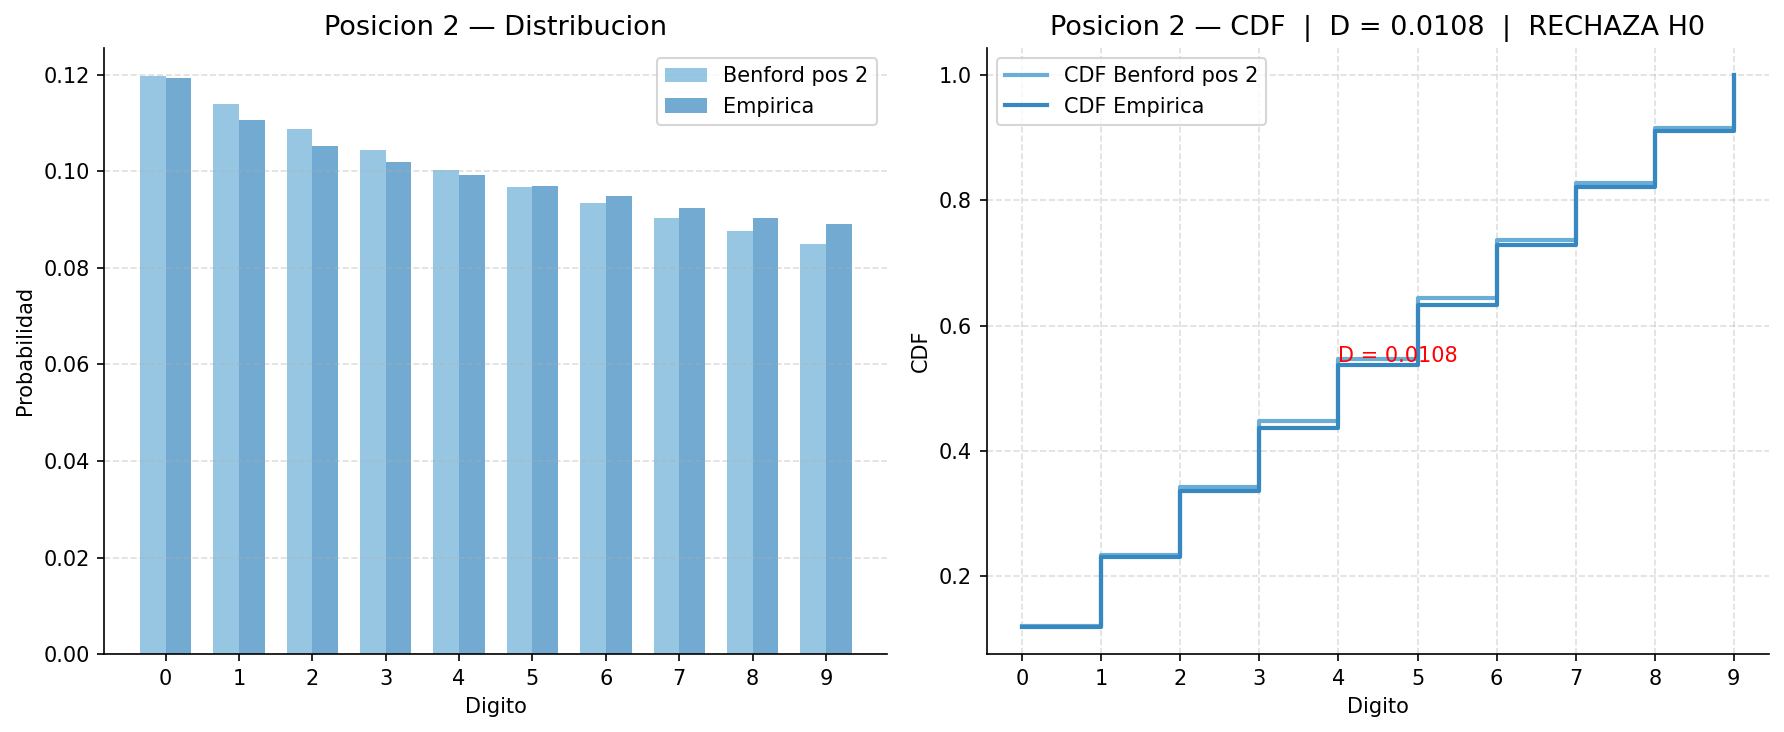
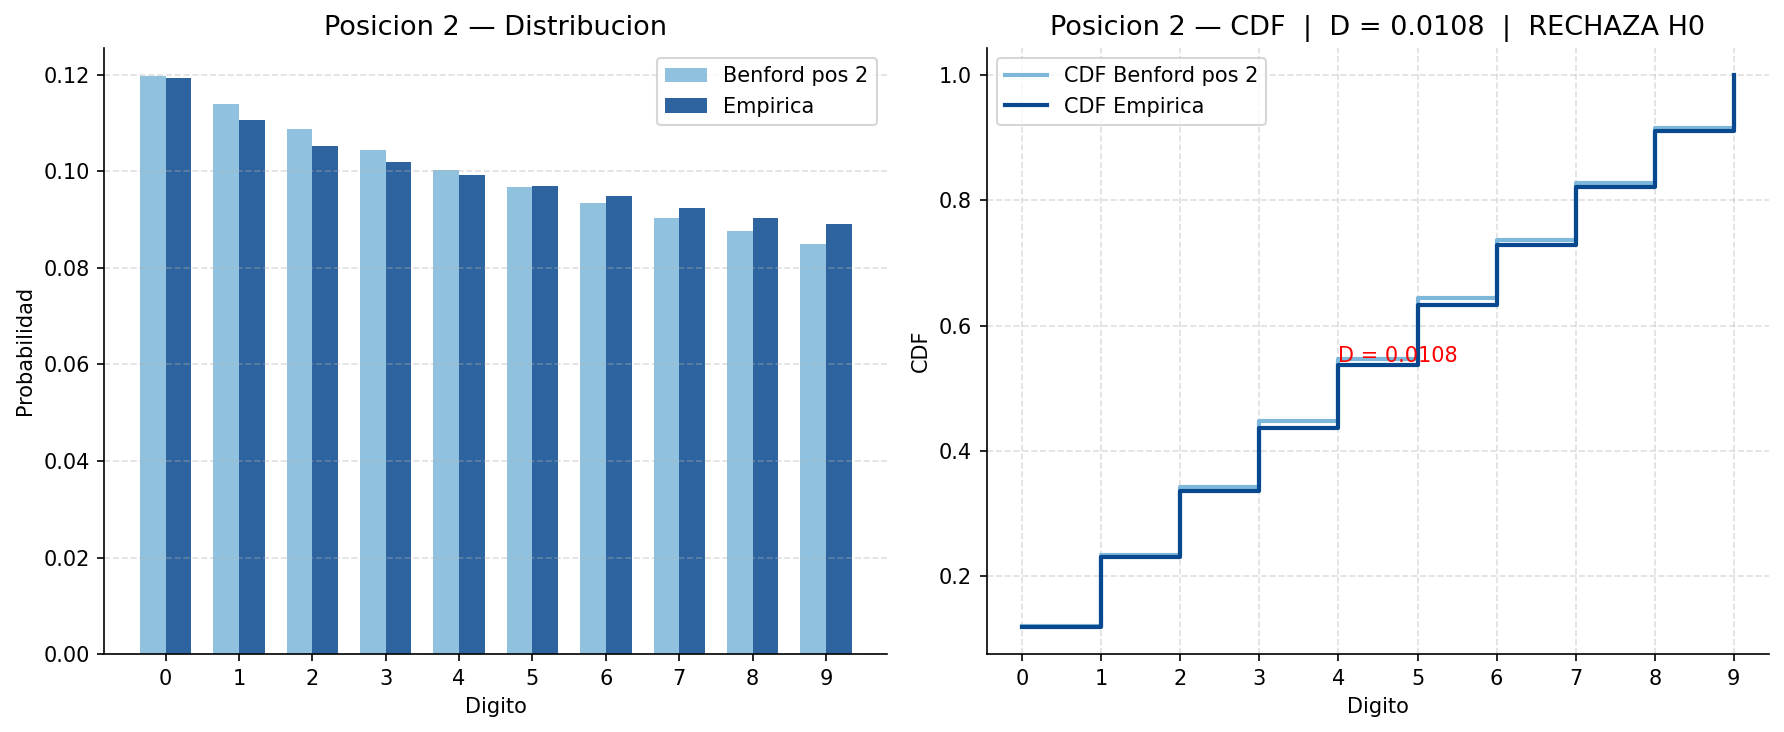
feat: annade progra y graficos de prueba kruskal wallis

diff --git a/codigo/03_modelacion.py b/codigo/03_modelacion.py
@@ -25,7 +25,7 @@ TOKENS_DIST       = "../datos/procesados/tokens_dist_digitos.txt"
 OUT_DIR           = "../datos/procesados/graficos_ks"
 OUT_TXT           = "../datos/procesados/ks_tokens_resumen.txt"
 OUT               = "../datos/procesados/pruebas_resumen.txt"
-palette           = sns.color_palette("Blues", 5)
+palette           = sns.color_palette("Blues", 10)
 
 
 
@@ -157,21 +157,20 @@ def ks_benford(alpha=0.05):
 
         ax1 = axes[0]
         ax1.set_facecolor("white")
-        ax1.bar(x - ancho/2, prob_teorica,  width=ancho, color=palette[2], alpha=0.7, label=f"Benford pos {pos_num}")
-        ax1.bar(x + ancho/2, prob_empirica, width=ancho, color=palette[3], alpha=0.7, label="Empirica")
+        ax1.bar(x - ancho/2, prob_teorica,  width=ancho, color=palette[4], alpha=0.85, label=f"Benford pos {pos_num}")
+        ax1.bar(x + ancho/2, prob_empirica, width=ancho, color=palette[9], alpha=0.85, label="Empirica")
         ax1.set_title(f"Posicion {pos_num} — Distribucion", fontsize=13)
         ax1.set_xlabel("Digito")
         ax1.set_ylabel("Probabilidad")
         ax1.set_xticks(x)
         ax1.legend()
+        sns.despine(ax=ax1)
         ax1.grid(axis="y", linestyle="--", alpha=0.4)
-        ax1.spines["top"].set_visible(False)
-        ax1.spines["right"].set_visible(False)
 
         ax2 = axes[1]
         ax2.set_facecolor("white")
-        ax2.step(x, cdf_teorica,  where="post", color=palette[2], linewidth=2, label=f"CDF Benford pos {pos_num}")
-        ax2.step(x, cdf_empirica, where="post", color=palette[3], linewidth=2, label="CDF Empirica")
+        ax2.step(x, cdf_teorica,  where="post", color=palette[4], linewidth=2, label=f"CDF Benford pos {pos_num}")
+        ax2.step(x, cdf_empirica, where="post", color=palette[9], linewidth=2, label="CDF Empirica")
 
         idx_max = np.argmax(np.abs(cdf_empirica - cdf_teorica))
         ax2.annotate(
@@ -185,9 +184,8 @@ def ks_benford(alpha=0.05):
         ax2.set_ylabel("CDF")
         ax2.set_xticks(x)
         ax2.legend()
+        sns.despine(ax=ax2)
         ax2.grid(linestyle="--", alpha=0.4)
-        ax2.spines["top"].set_visible(False)
-        ax2.spines["right"].set_visible(False)
 
         plt.tight_layout()
         plt.savefig(f"{OUT_DIR}/ks_pos{pos_num}.png", dpi=150, bbox_inches="tight", facecolor="white")
@@ -212,6 +210,264 @@ def ks_benford(alpha=0.05):
     print(f"  -> Graficos en {OUT_DIR}/")
 
 
+
+def kruskal_wallis_entropias():
+    """
+    Calcula la prueba de Kruskal-Wallis sobre las entropias medias de las mascaras
+    agrupadas por tres criterios: longitud de mascara, tipo dominante de caracteres
+    y rango de entropia media.
+
+    Args:
+        None
+
+    Returns:
+        None: Guarda graficos boxplot por agrupacion y un resumen en texto plano.
+
+    Example:
+        >>> kruskal_wallis_entropias()
+        KW Longitud:       H = 48231.2100   p = 0.000000   RECHAZA H0
+        KW Tipo dominante: H = 12045.8800   p = 0.000000   RECHAZA H0
+        KW Rango entropia: H = 11746760.06  p = 0.000000   RECHAZA H0
+
+    Notes:
+        Las muestras se expanden por frecuencia (hasta un cap de 500k por mascara)
+        para que el test pondere correctamente las mascaras mas comunes.
+        Los tipos dominantes son: Solo L (solo minusculas), Solo D (solo digitos),
+        Solo U (solo mayusculas) y Mixta (combinacion de tipos).
+        El resultado de la agrupacion por rango de entropia es trivialmente
+        significativo por construccion y debe interpretarse solo como descriptivo.
+    """
+
+    OUT_KW_DIR = "../datos/procesados/graficos_kw"
+    OUT_KW_TXT = "../datos/procesados/kw_entropias_resumen.txt"
+    os.makedirs(OUT_KW_DIR, exist_ok=True)
+
+    mascaras    = []
+    entropias   = []
+    frecuencias = []
+
+    with open(ROCKYOUMASKS, "r", encoding="utf-8") as f:
+        reader = csv.DictReader(f)
+        for row in reader:
+            mascaras.append(row["mascara"])
+            entropias.append(float(row["entropia_media"]))
+            frecuencias.append(int(row["frecuencia"]))
+
+    mascaras    = np.array(mascaras)
+    entropias   = np.array(entropias)
+    frecuencias = np.array(frecuencias)
+
+    def expandir(vals, freqs, cap=500_000):
+        """
+        Expande una lista de valores repitiendolos segun su frecuencia asociada.
+
+        Args:
+            vals (list[float]): Valores a expandir.
+            freqs (list[int]):  Frecuencias correspondientes.
+            cap (int):          Limite maximo de repeticiones por valor. Por defecto 500000.
+
+        Returns:
+            numpy.ndarray: Array expandido de floats.
+        """
+        out = []
+        for v, f in zip(vals, freqs):
+            out.extend([v] * min(f, cap))
+        return np.array(out, dtype=float)
+
+    resultados_kw = []
+
+    longitudes  = np.array([len(m) for m in mascaras])
+    grupos_long = defaultdict(list)
+
+    for lon, ent, frq in zip(longitudes, entropias, frecuencias):
+        grupos_long[lon].append((ent, frq))
+
+    grupos_long_valid = {k: v for k, v in grupos_long.items() if len(v) >= 2}
+    etiquetas_long    = sorted(grupos_long_valid.keys())
+    muestras_long     = [expandir([e for e, _ in grupos_long_valid[k]],
+                                  [f for _, f in grupos_long_valid[k]])
+                         for k in etiquetas_long]
+
+    H_long, p_long = stats.kruskal(*muestras_long)
+    rechaza_long   = p_long < 0.05
+
+    resultados_kw.append({
+        "agrupacion": "Longitud de mascara",
+        "n_grupos":   len(etiquetas_long),
+        "H":          H_long,
+        "p":          p_long,
+        "rechaza":    rechaza_long
+    })
+
+    print(f"  KW Longitud:      H = {H_long:.4f}   p = {p_long:.6f}   {'RECHAZA H0' if rechaza_long else 'No rechaza H0'}")
+
+    medias     = [np.mean(m) for m in muestras_long]
+    df_long    = {"longitud": [], "entropia": []}
+    for k, m in zip(etiquetas_long, muestras_long):
+        df_long["longitud"].extend([k] * len(m))
+        df_long["entropia"].extend(m.tolist())
+
+    fig, ax = plt.subplots(figsize=(14, 5))
+    fig.patch.set_facecolor("white")
+    sns.boxplot(x=df_long["longitud"], y=df_long["entropia"],
+                palette="Blues", ax=ax, linewidth=0.8, fliersize=1)
+    ax.plot(range(len(etiquetas_long)), medias, "o--",
+            color=palette[4], markersize=4, label="Media")
+    ax.set_title(f"Kruskal-Wallis — Entropia por longitud de mascara\nH = {H_long:.4f}  |  p = {p_long:.6f}  |  {'RECHAZA H0' if rechaza_long else 'No rechaza H0'}", fontsize=12)
+    ax.set_xlabel("Longitud de mascara")
+    ax.set_ylabel("Entropia media")
+    ax.legend()
+    sns.despine(ax=ax)
+    ax.grid(axis="y", linestyle="--", alpha=0.4)
+    plt.tight_layout()
+    plt.savefig(f"{OUT_KW_DIR}/kw_longitud.png", dpi=150, bbox_inches="tight", facecolor="white")
+    plt.close()
+
+    def clasificar_tipo(mascara):
+        """
+        Clasifica una mascara segun el tipo dominante de sus caracteres.
+
+        Args:
+            mascara (str): Cadena de caracteres tipo mascara (ej. 'LLLDDD').
+
+        Returns:
+            str: Una de las etiquetas: 'Solo L', 'Solo D', 'Solo U' o 'Mixta'.
+        """
+        chars = set(mascara)
+        if chars <= {"L"}:
+            return "Solo L"
+        if chars <= {"D"}:
+            return "Solo D"
+        if chars <= {"U"}:
+            return "Solo U"
+        if chars <= {"S"}:
+            return "Solo S"
+        return "Mixta"
+
+    tipos       = np.array([clasificar_tipo(m) for m in mascaras])
+    grupos_tipo = defaultdict(list)
+
+    for tip, ent, frq in zip(tipos, entropias, frecuencias):
+        grupos_tipo[tip].append((ent, frq))
+
+    etiquetas_tipo = sorted(grupos_tipo.keys())
+    muestras_tipo  = [expandir([e for e, _ in grupos_tipo[k]],
+                               [f for _, f in grupos_tipo[k]])
+                      for k in etiquetas_tipo]
+
+    H_tipo, p_tipo = stats.kruskal(*muestras_tipo)
+    rechaza_tipo   = p_tipo < 0.05
+
+    resultados_kw.append({
+        "agrupacion": "Tipo dominante",
+        "n_grupos":   len(etiquetas_tipo),
+        "H":          H_tipo,
+        "p":          p_tipo,
+        "rechaza":    rechaza_tipo
+    })
+
+    print(f"  KW Tipo dominante: H = {H_tipo:.4f}   p = {p_tipo:.6f}   {'RECHAZA H0' if rechaza_tipo else 'No rechaza H0'}")
+
+    medias_tipo = [np.mean(m) for m in muestras_tipo]
+    df_tipo     = {"tipo": [], "entropia": []}
+    for k, m in zip(etiquetas_tipo, muestras_tipo):
+        df_tipo["tipo"].extend([k] * len(m))
+        df_tipo["entropia"].extend(m.tolist())
+
+    fig, ax = plt.subplots(figsize=(8, 5))
+    fig.patch.set_facecolor("white")
+    sns.boxplot(x=df_tipo["tipo"], y=df_tipo["entropia"],
+                palette="Blues", ax=ax, linewidth=0.8, fliersize=1)
+    ax.plot(range(len(etiquetas_tipo)), medias_tipo, "o--",
+            color=palette[4], markersize=5, label="Media")
+    ax.set_title(f"Kruskal-Wallis — Entropia por tipo de mascara\nH = {H_tipo:.4f}  |  p = {p_tipo:.6f}  |  {'RECHAZA H0' if rechaza_tipo else 'No rechaza H0'}", fontsize=12)
+    ax.set_xlabel("Tipo de mascara")
+    ax.set_ylabel("Entropia media")
+    ax.legend()
+    sns.despine(ax=ax)
+    ax.grid(axis="y", linestyle="--", alpha=0.4)
+    plt.tight_layout()
+    plt.savefig(f"{OUT_KW_DIR}/kw_tipo.png", dpi=150, bbox_inches="tight", facecolor="white")
+    plt.close()
+
+    def rango_entropia(e):
+        """
+        Clasifica un valor de entropia en uno de tres rangos predefinidos.
+
+        Args:
+            e (float): Valor de entropia media.
+
+        Returns:
+            str: Etiqueta del rango: 'Baja (<1.5)', 'Media (1.5-2.5)' o 'Alta (>=2.5)'.
+        """
+        if e < 1.5:
+            return "Baja (<1.5)"
+        if e < 2.5:
+            return "Media (1.5-2.5)"
+        return "Alta (>=2.5)"
+
+    rangos       = np.array([rango_entropia(e) for e in entropias])
+    grupos_rango = defaultdict(list)
+
+    for rng, ent, frq in zip(rangos, entropias, frecuencias):
+        grupos_rango[rng].append((ent, frq))
+
+    orden_rangos  = ["Baja (<1.5)", "Media (1.5-2.5)", "Alta (>=2.5)"]
+    etiquetas_rng = [r for r in orden_rangos if r in grupos_rango]
+    muestras_rng  = [expandir([e for e, _ in grupos_rango[k]],
+                              [f for _, f in grupos_rango[k]])
+                     for k in etiquetas_rng]
+
+    H_rng, p_rng = stats.kruskal(*muestras_rng)
+    rechaza_rng  = p_rng < 0.05
+
+    resultados_kw.append({
+        "agrupacion": "Rango de entropia",
+        "n_grupos":   len(etiquetas_rng),
+        "H":          H_rng,
+        "p":          p_rng,
+        "rechaza":    rechaza_rng
+    })
+
+    print(f"  KW Rango entropia: H = {H_rng:.4f}   p = {p_rng:.6f}   {'RECHAZA H0' if rechaza_rng else 'No rechaza H0'}")
+
+    medias_rng = [np.mean(m) for m in muestras_rng]
+    df_rng     = {"rango": [], "entropia": []}
+    for k, m in zip(etiquetas_rng, muestras_rng):
+        df_rng["rango"].extend([k] * len(m))
+        df_rng["entropia"].extend(m.tolist())
+
+    fig, ax = plt.subplots(figsize=(8, 5))
+    fig.patch.set_facecolor("white")
+    sns.boxplot(x=df_rng["rango"], y=df_rng["entropia"],
+                palette="Blues", order=etiquetas_rng, ax=ax, linewidth=0.8, fliersize=1)
+    ax.plot(range(len(etiquetas_rng)), medias_rng, "o--",
+            color=palette[4], markersize=5, label="Media")
+    ax.set_title(f"Kruskal-Wallis — Entropia por rango\nH = {H_rng:.4f}  |  p = {p_rng:.6f}  |  {'RECHAZA H0' if rechaza_rng else 'No rechaza H0'}", fontsize=12)
+    ax.set_xlabel("Rango de entropia")
+    ax.set_ylabel("Entropia media")
+    ax.legend()
+    sns.despine(ax=ax)
+    ax.grid(axis="y", linestyle="--", alpha=0.4)
+    plt.tight_layout()
+    plt.savefig(f"{OUT_KW_DIR}/kw_rango.png", dpi=150, bbox_inches="tight", facecolor="white")
+    plt.close()
+
+    with open(OUT_KW_TXT, "w", encoding="utf-8") as f:
+        f.write("=== Kruskal-Wallis sobre entropias por agrupacion (alpha = 5%) ===\n\n")
+        f.write(f"{'Agrupacion':<25} {'N grupos':<10} {'H_stat':<12} {'p-valor':<14} {'Resultado'}\n")
+        f.write("-" * 75 + "\n")
+        for r in resultados_kw:
+            estado = "RECHAZA H0" if r["rechaza"] else "No rechaza H0"
+            f.write(f"{r['agrupacion']:<25} {r['n_grupos']:<10} {r['H']:<12.4f} {r['p']:<14.6f} {estado}\n")
+        f.write("\nNota: muestras expandidas por frecuencia (cap 500k por mascara)\n")
+
+    print(f"\n  -> {OUT_KW_TXT} guardado")
+    print(f"  -> Graficos en {OUT_KW_DIR}/")
+
+
+
+
 # main
 if __name__ == "__main__":
 
@@ -220,3 +476,6 @@ if __name__ == "__main__":
     # Metodos no parametricos
     print("Calculando KS contra Benford...")
     ks_benford(0.1)
+
+    print("Calculando Kruskal-Wallis sobre entropias...")
+    kruskal_wallis_entropias()
